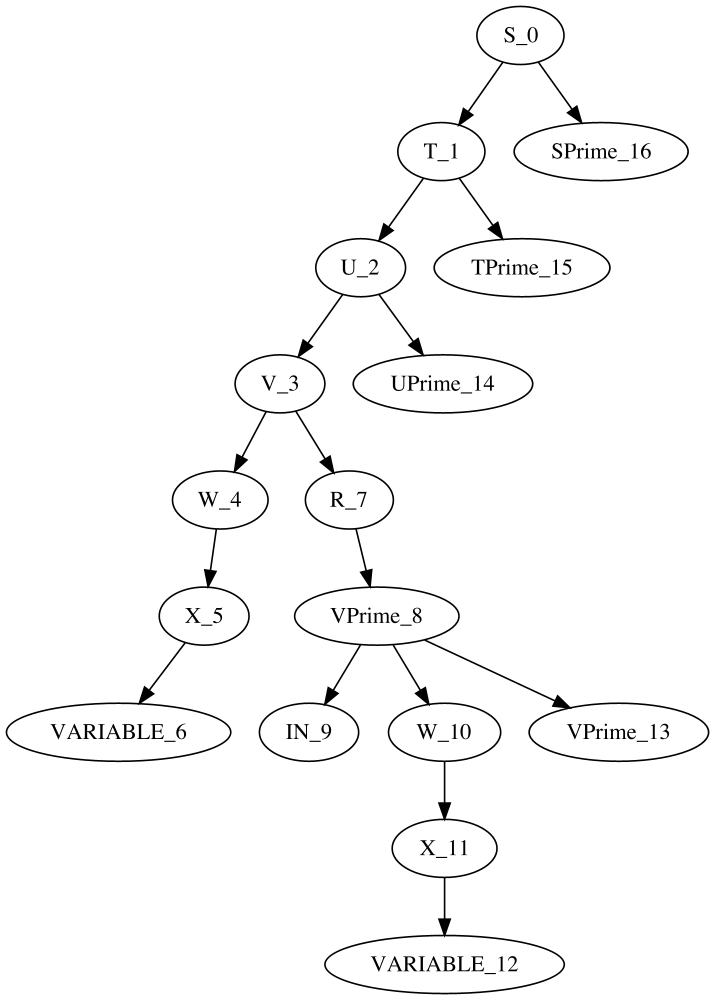
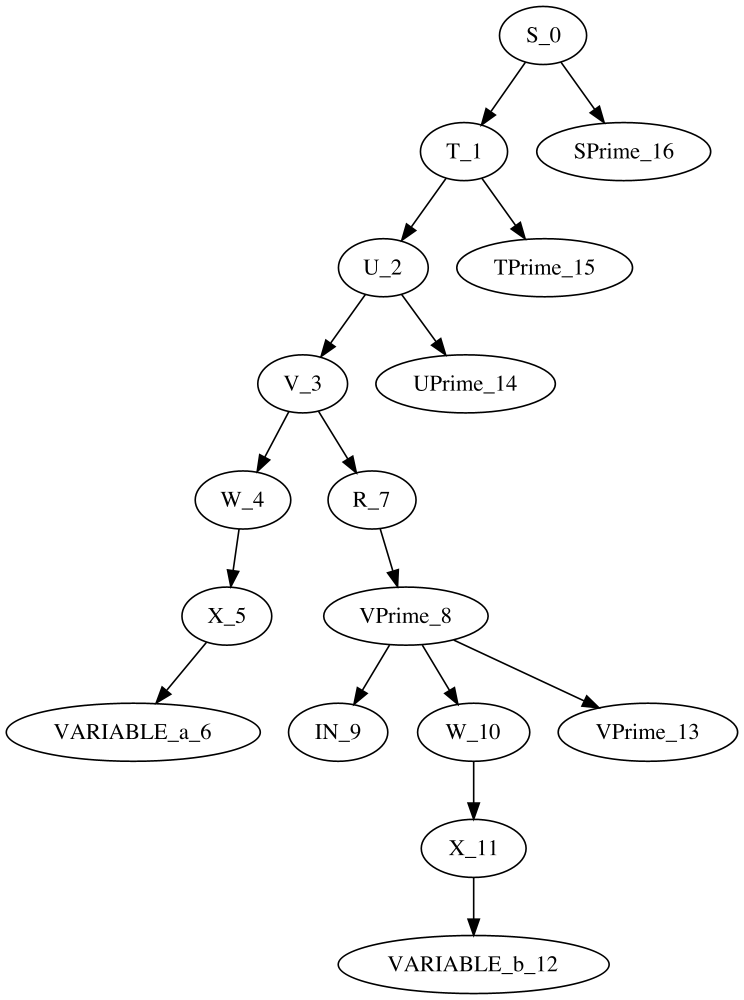
add var names

diff --git a/src/main/java/com/daviondk/mt/Parser.java b/src/main/java/com/daviondk/mt/Parser.java
@@ -49,7 +49,8 @@ public class Parser {
         return buildSimpleTree(
                 Collections.emptyList(),
                 Collections.singletonList(Token.VARIABLE),
-                Collections.emptyList(), "VARIABLE", true);
+                Collections.emptyList(),
+                "VARIABLE_" + lexicalAnalyzer.currentTokenString(), true);
     }
 
     private Tree lParen() {
